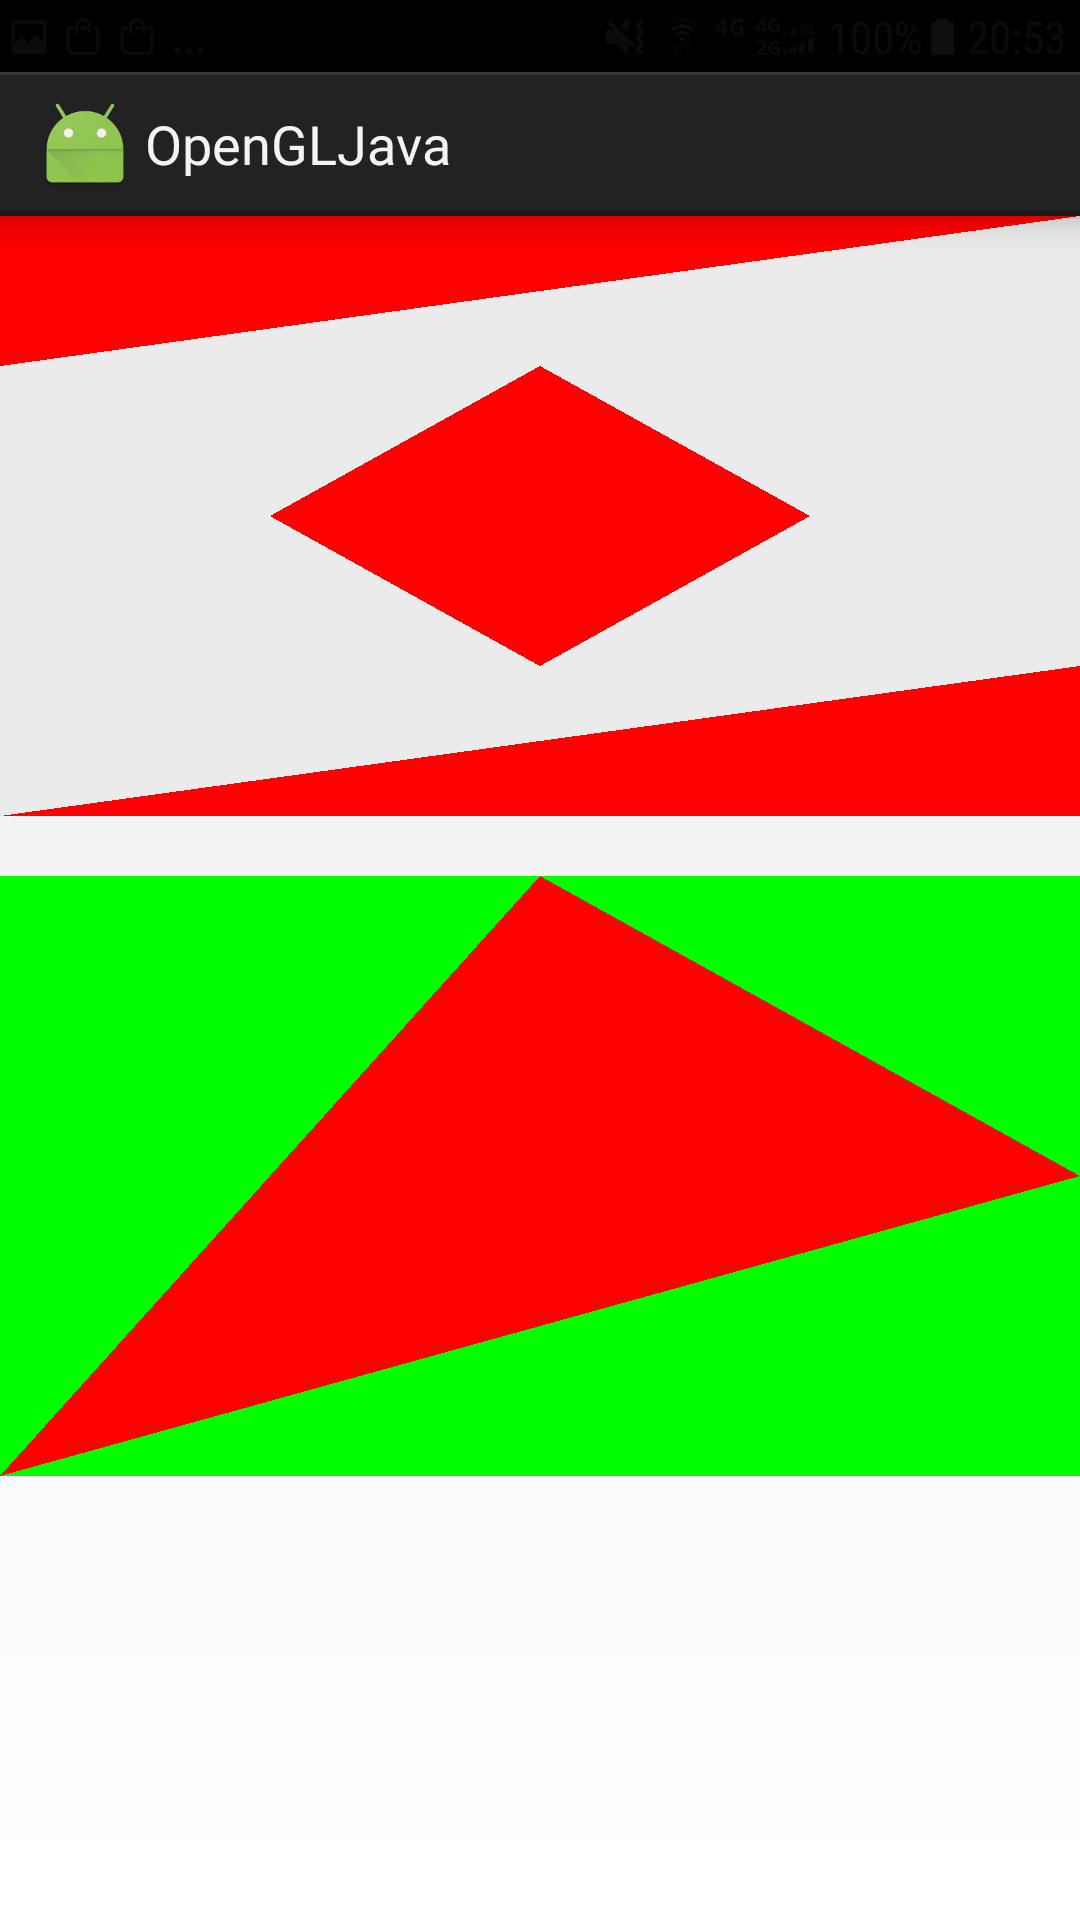
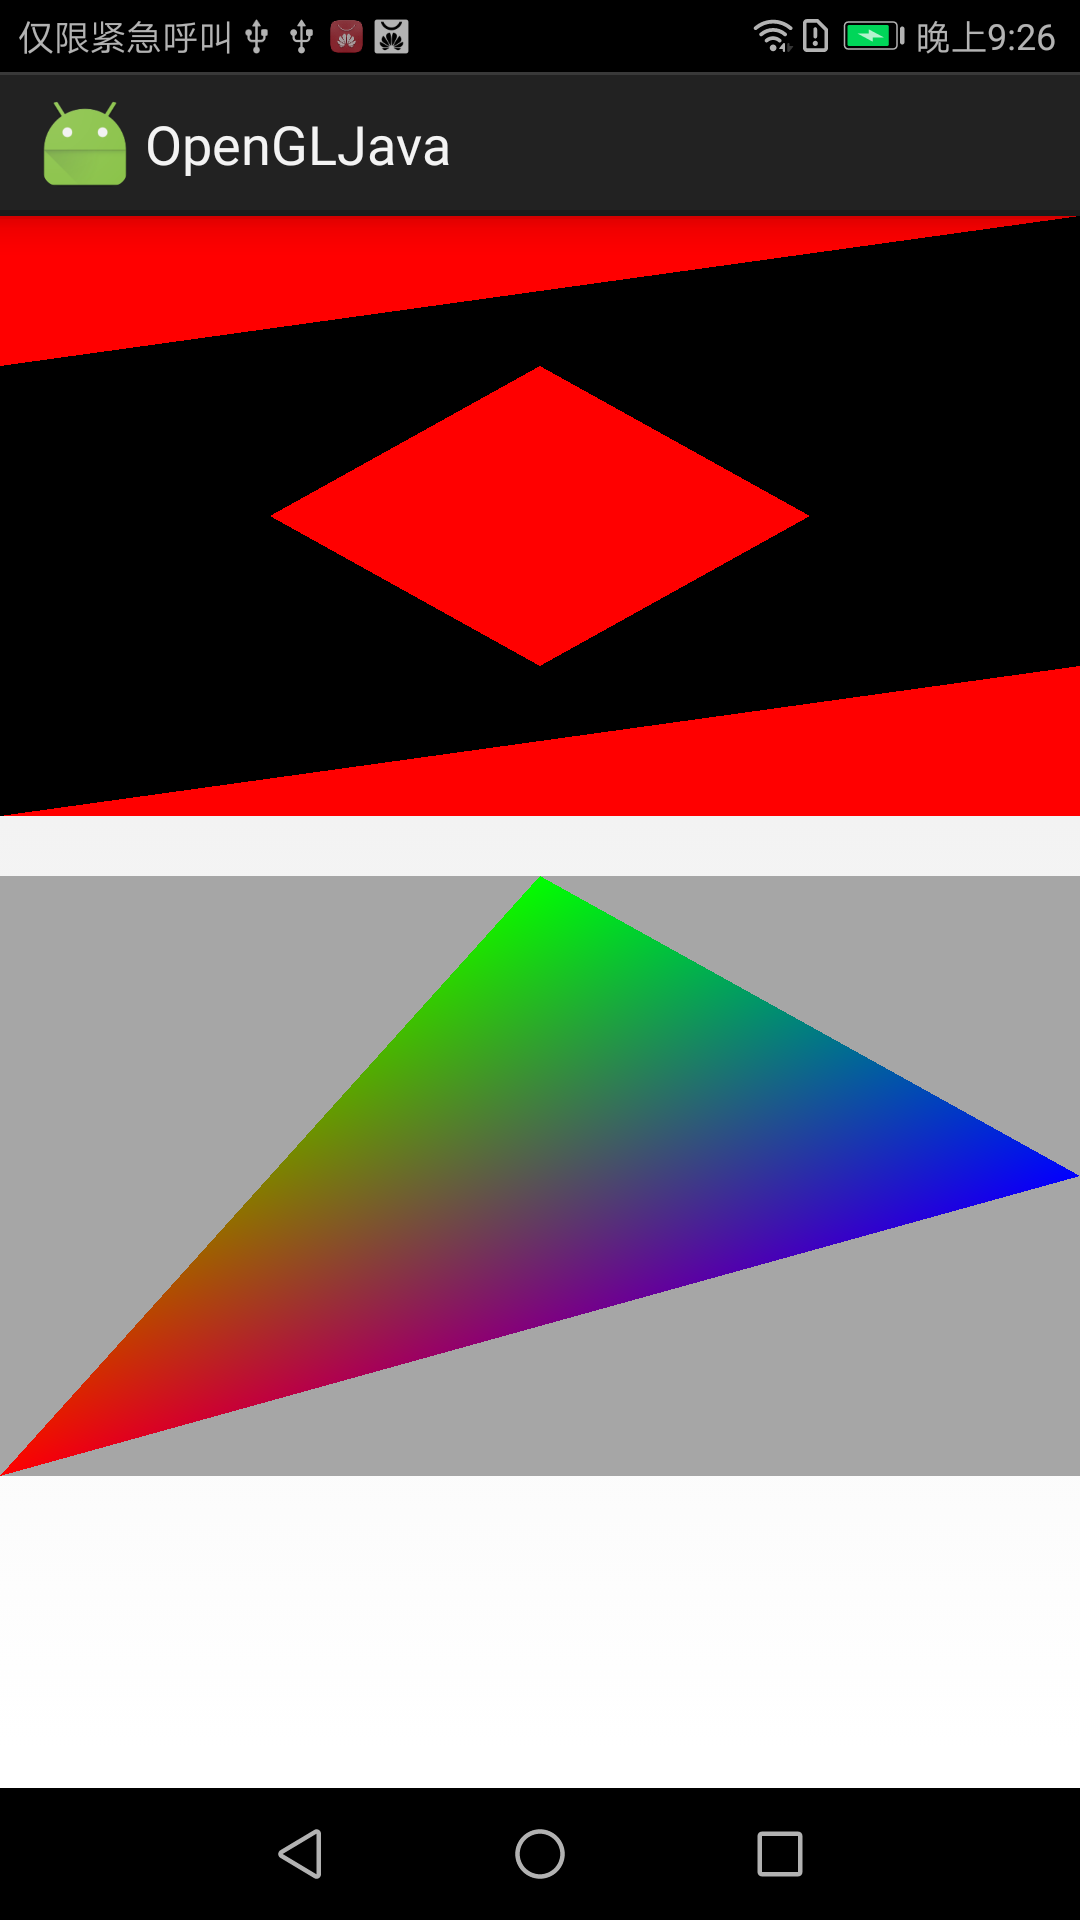
add two attribute in vettex shader

diff --git a/opengl-es-2.0/openGL-java/cpp/jni/interface.cpp b/opengl-es-2.0/openGL-java/cpp/jni/interface.cpp
@@ -1,20 +1,31 @@
 #include <interface.h>
 
-const char*  vertexSource = "attribute vec4 vPostion;\n"
+const char*  vertexSource = "attribute vec3 vPosition;\n"
+							"attribute vec4 vColor;"
+							"varying vec4 v_fragmentColor;"
 										"void main() {\n"
-										"gl_Position = vPostion;\n"
+										"gl_Position = vec4(vPosition,1.0);\n"
+										"v_fragmentColor = vColor;"
 										"}\n";
+										
+const char*  fragmentSource = "varying vec4 v_fragmentColor;"
+								"void main()"
+								"{"
+								"gl_FragColor = v_fragmentColor;"
+								"}";
+										
 //const char*  vertexSource =
 //    "attribute vec4 vPosition;\n"
 //    "void main() {\n"
 //    "  gl_Position = vPosition;\n"
 //    "}\n";
 		
-const char* fragmentSource = "precision mediump float;\n"
-								"uniform vec4 vColor;\n"
-								"void main(){\n"
-									"gl_FragColor = vColor;\n"	
-								"}\n";
+//const char* fragmentSource = "precision mediump float;\n"
+//								"uniform vec4 vColor;\n"
+//								"void main(){\n"
+//									"gl_FragColor = vColor;\n"	
+//								"}\n";
+
 //auto gFragmentShader =
 //    "precision mediump float;\n"
 //    "void main() {\n"
@@ -30,9 +41,10 @@ GLfloat vertices[] = {
 		-1.0f,-1.0f,0.0f,
 		1.0f,0.0f,0.0f,
 		};
-GLfloat color[] = {
-	0.0f,0.0f,1.0f,1.0f
-};
+//GLfloat color[] = {
+//	0.0f,0.0f,1.0f,1.0f
+//};
+GLfloat color[] = { 0, 1,0, 1,  1,0,0, 1, 0, 0, 1, 1};
 		
 JNIEXPORT void JNICALL
 Java_ricoh_opengljava_NativeMethod_onSurfaceCreated(JNIEnv *,jclass){
@@ -66,8 +78,10 @@ Java_ricoh_opengljava_NativeMethod_onDrawFrame(JNIEnv *,jclass){
 	glClear(GL_COLOR_BUFFER_BIT);
 	glUseProgram(gProgram);
 	glVertexAttribPointer(gPostionHandle, 3, GL_FLOAT, GL_FALSE, 0, vertices);
-	glUniform4fv(gColorHandle,1,color);
+	glVertexAttribPointer(gColorHandle, 4, GL_FLOAT, GL_FALSE, 0, color);
+	//glUniform4fv(gColorHandle,1,color);
 	glEnableVertexAttribArray(gPostionHandle);
+	glEnableVertexAttribArray(gColorHandle);
 	glDrawArrays(GL_TRIANGLES, 0, 3);
 }
 
@@ -82,8 +96,9 @@ void init(int w, int h){
 		//glBufferData(GL_ARRAY_BUFFER,sizeof(vertices),vertices,GL_STATIC_DRAW);
 		
 		gProgram = createProgram(vertexSource,fragmentSource);
-		gPostionHandle = glGetAttribLocation(gProgram,"vPostion");
-		gColorHandle = glGetUniformLocation(gProgram,"vColor");	
+		gPostionHandle = glGetAttribLocation(gProgram,"vPosition");
+		gColorHandle = glGetAttribLocation(gProgram,"vColor");
+		//gColorHandle = glGetUniformLocation(gProgram,"vColor");	
 }
 
 GLuint createProgram(const char*pVertexSource , const char* pFragmentSource){
@@ -109,6 +124,24 @@ GLuint loadShader(GLenum shaderType , const char* pSource){
 		LOGI("shader compiled status pre   %d",compiled);
 		glGetShaderiv(shader,GL_COMPILE_STATUS,&compiled);
 		LOGI("shader compiled status    %d",compiled);
+		
+		//GLint compiled = 0;
+        glGetShaderiv(shader, GL_COMPILE_STATUS, &compiled);
+        if (!compiled) {
+            GLint infoLen = 0;
+            glGetShaderiv(shader, GL_INFO_LOG_LENGTH, &infoLen);
+            if (infoLen) {
+                char* buf = (char*) malloc(infoLen);
+                if (buf) {
+                    glGetShaderInfoLog(shader, infoLen, NULL, buf);
+                    LOGE("Could not compile shader %d:\n%s\n",
+                            shaderType, buf);
+                    free(buf);
+                }
+                glDeleteShader(shader);
+                shader = 0;
+            }
+        }
 	}
 	return shader;
 }
